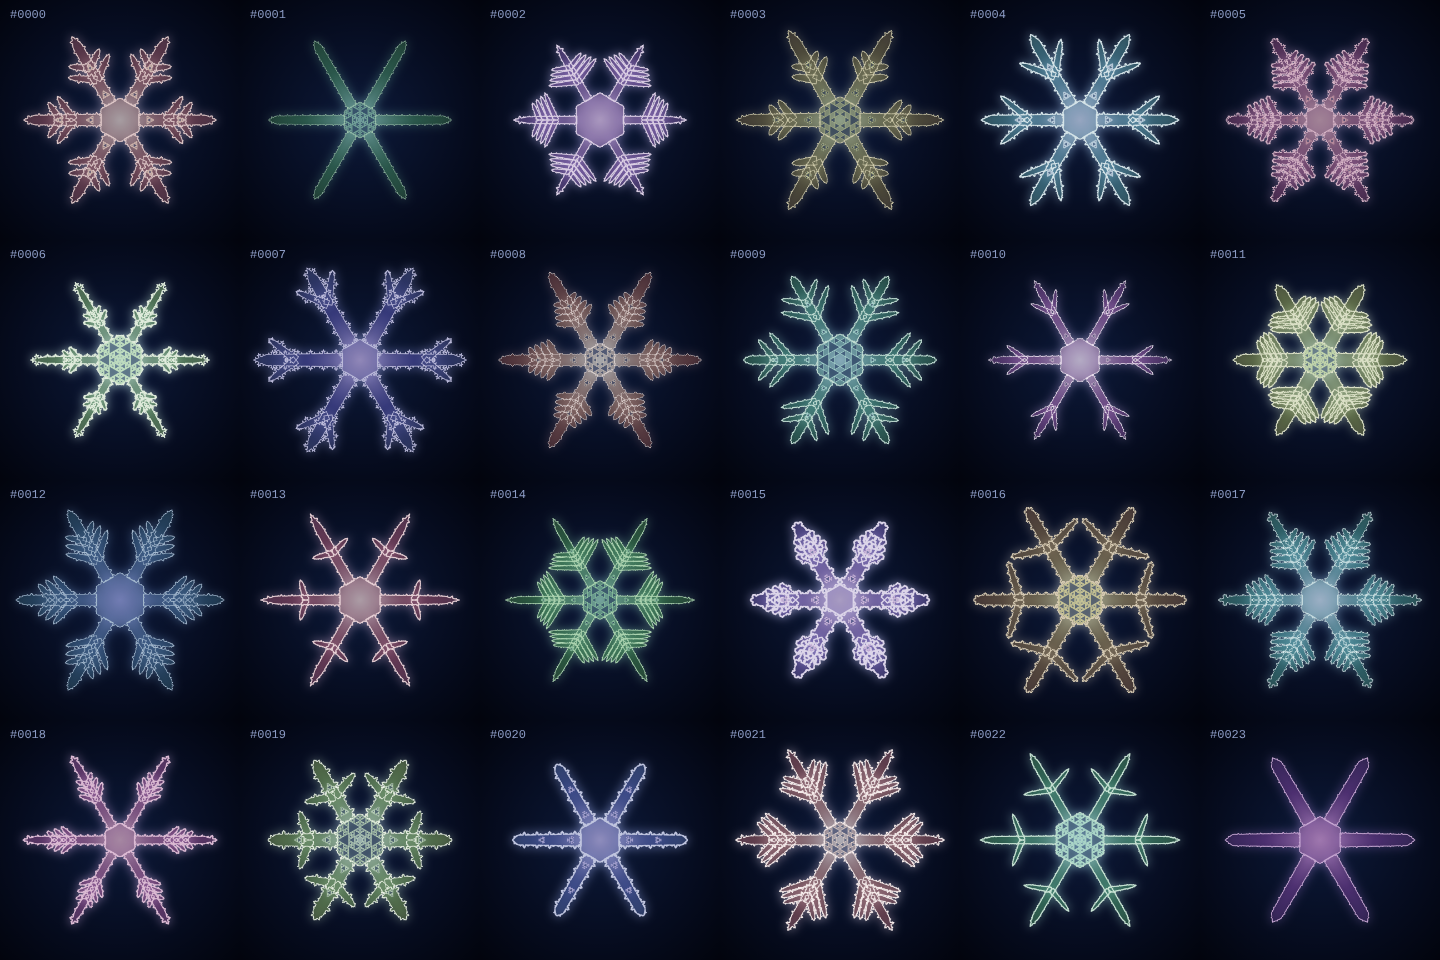
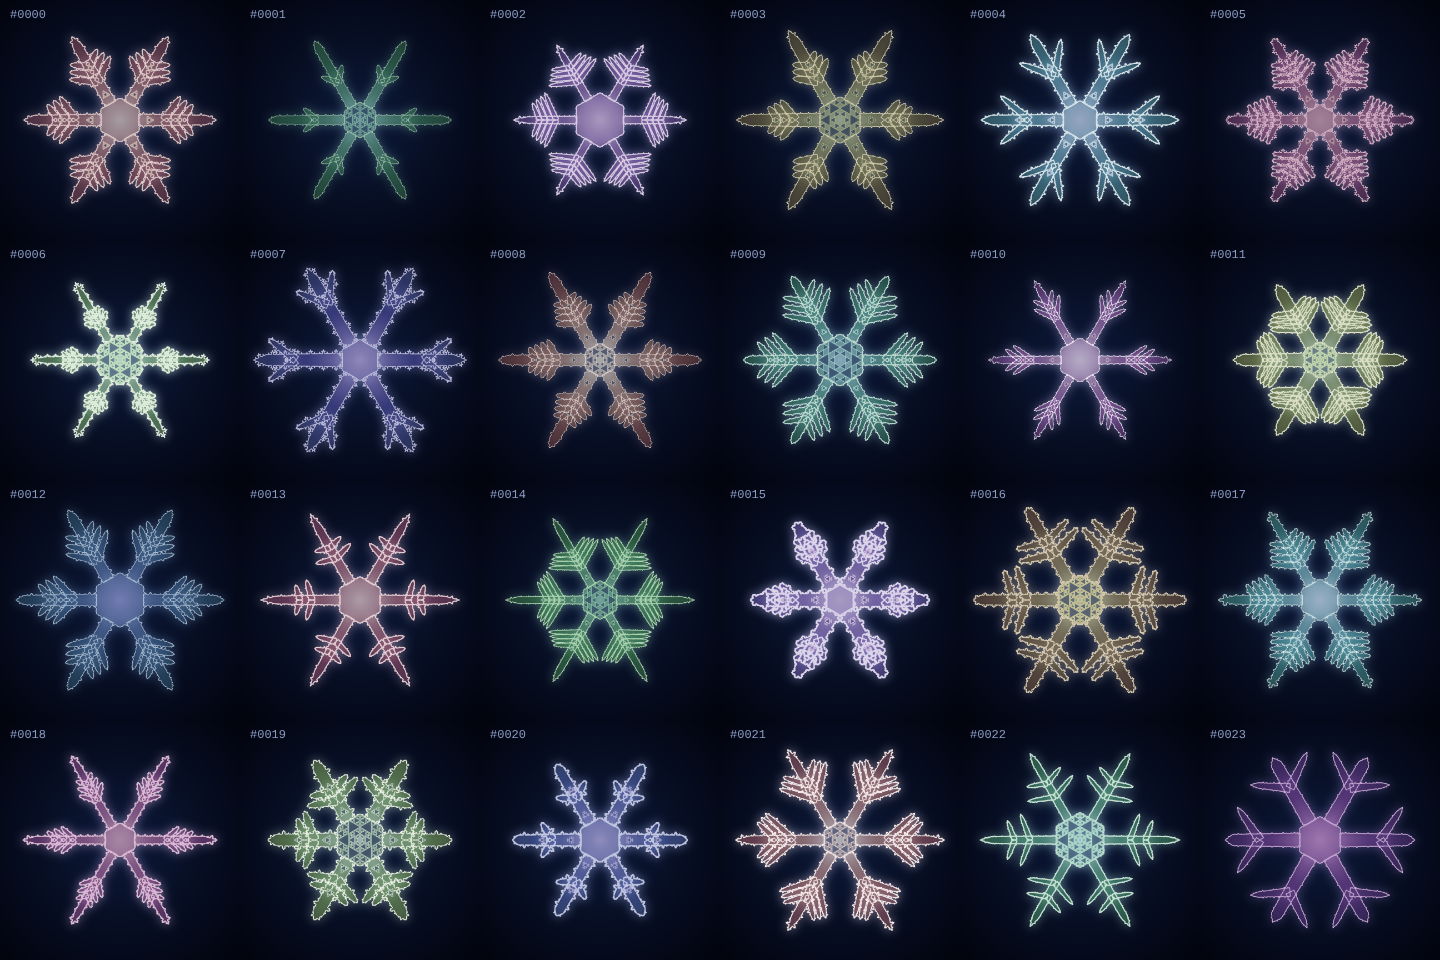
feat(seed): give every crystal at least one side branch
Seeds with zero side branches ended up as six bare straight arms. The
side-branch count now maps onto 1-4, and a test checks that the first
5000 seeds all render at least one side branch. Screenshots refreshed.

Claude-Session: https://claude.ai/code/session_01VQEgqJsmknEoff6SVQPg94

diff --git a/tests/snowflake.test.ts b/tests/snowflake.test.ts
@@ -72,6 +72,13 @@ describe('symmetrised snowflake', () => {
     }
   });
 
+  it('every crystal has at least one side branch (no bare straight arms)', () => {
+    for (let seed = 0; seed < 5000; seed++) {
+      const sides = buildSectorTemplate(seedToParams(seed)).sides.length;
+      if (sides < 1) throw new Error(`seed ${seed} has no side branches`);
+    }
+  });
+
   it('sector side branches stay within the 30° wedge', () => {
     for (let seed = 0; seed < 200; seed++) {
       const tpl = buildSectorTemplate(seedToParams(seed));

diff --git a/src/seed/params.ts b/src/seed/params.ts
@@ -93,7 +93,7 @@ export const RD_PARAM_SPECS = {
   mainWidth: cont(0.035, 0.07),
   tipLength: cont(0.06, 0.16),
   hexRadius: cont(0.14, 0.26),
-  sideCount: int(0, 4),
+  sideCount: int(1, 4),
   sideAngle: cont(35, 75),
   sideStart: cont(0.22, 0.4),
   sideSpread: cont(0.3, 0.5),

diff --git a/README.md b/README.md
@@ -79,7 +79,7 @@ $g_d$ はニュートン法で求めています。
 | 8   | 主枝の半幅           | 0.035 – 0.07                      |
 | 9   | 先端テーパー長       | 0.06 – 0.16                       |
 | 10  | 中心六角形の半径     | 0.14 – 0.26                       |
-| 11  | 副枝の本数           | 0 – 4                             |
+| 11  | 副枝の本数           | 1 – 4                             |
 | 12  | 副枝の角度           | 35° – 75°                         |
 | 13  | 副枝の開始位置       | 0.22 – 0.40                       |
 | 14  | 副枝の分布幅         | 0.30 – 0.50                       |
